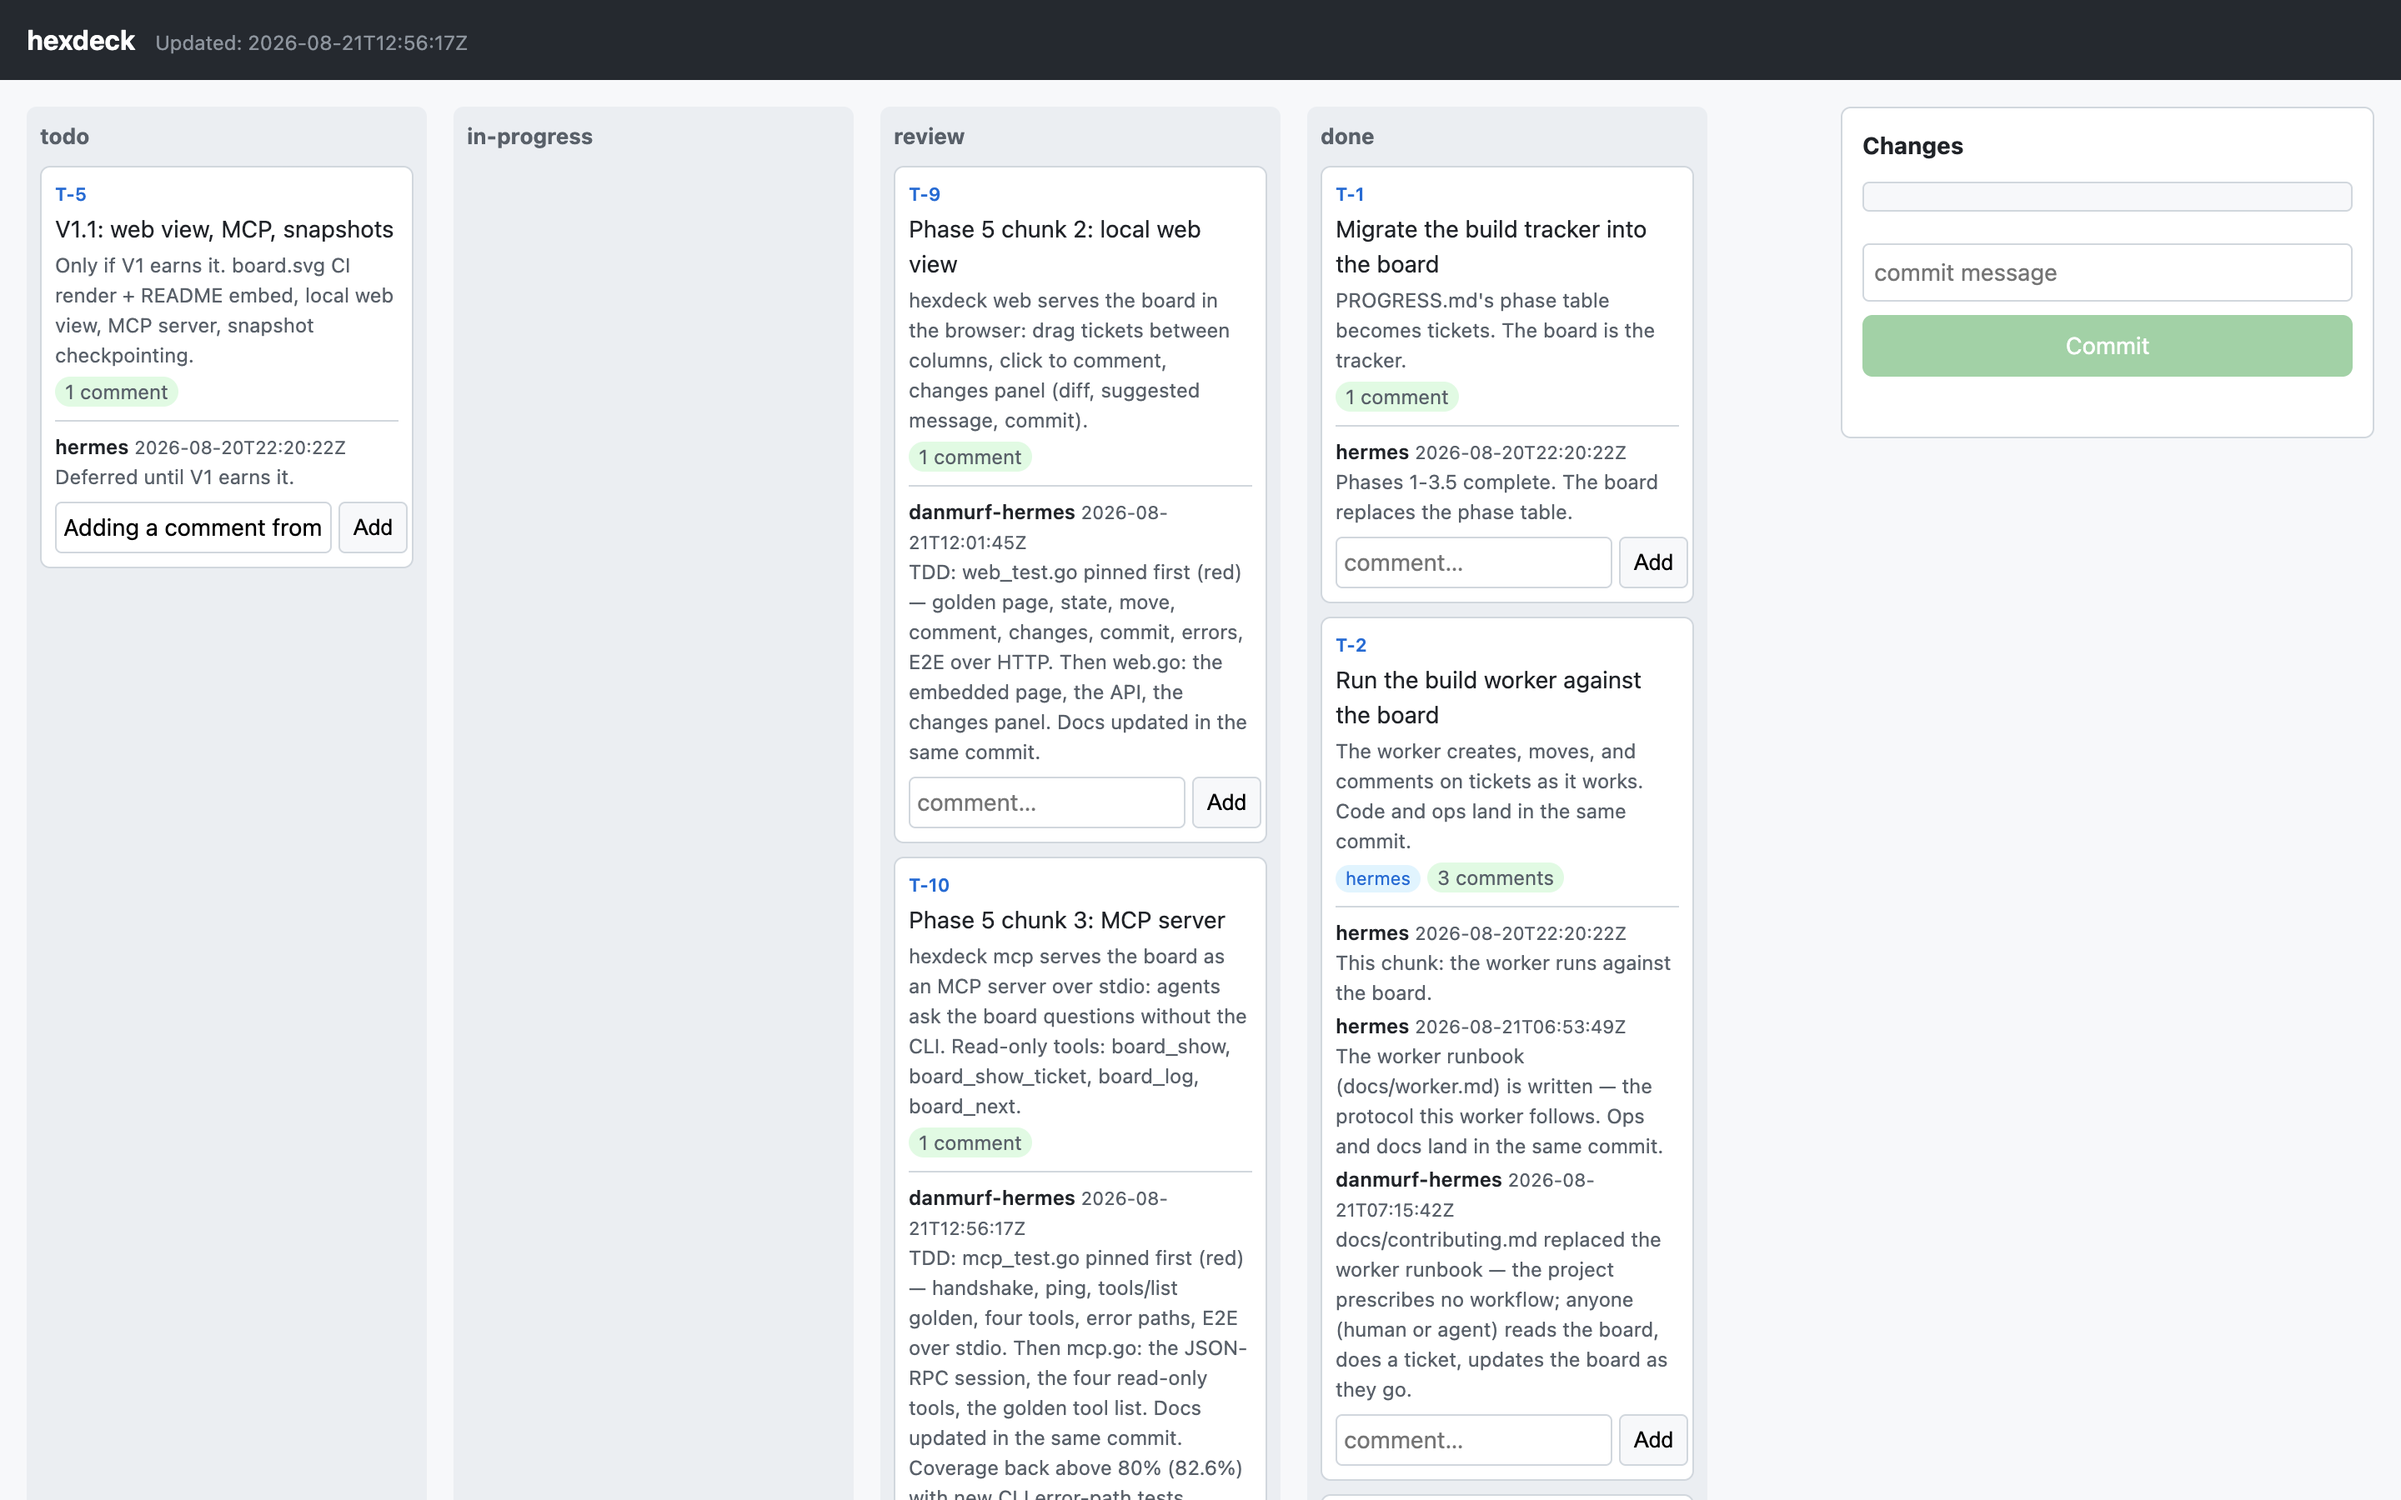
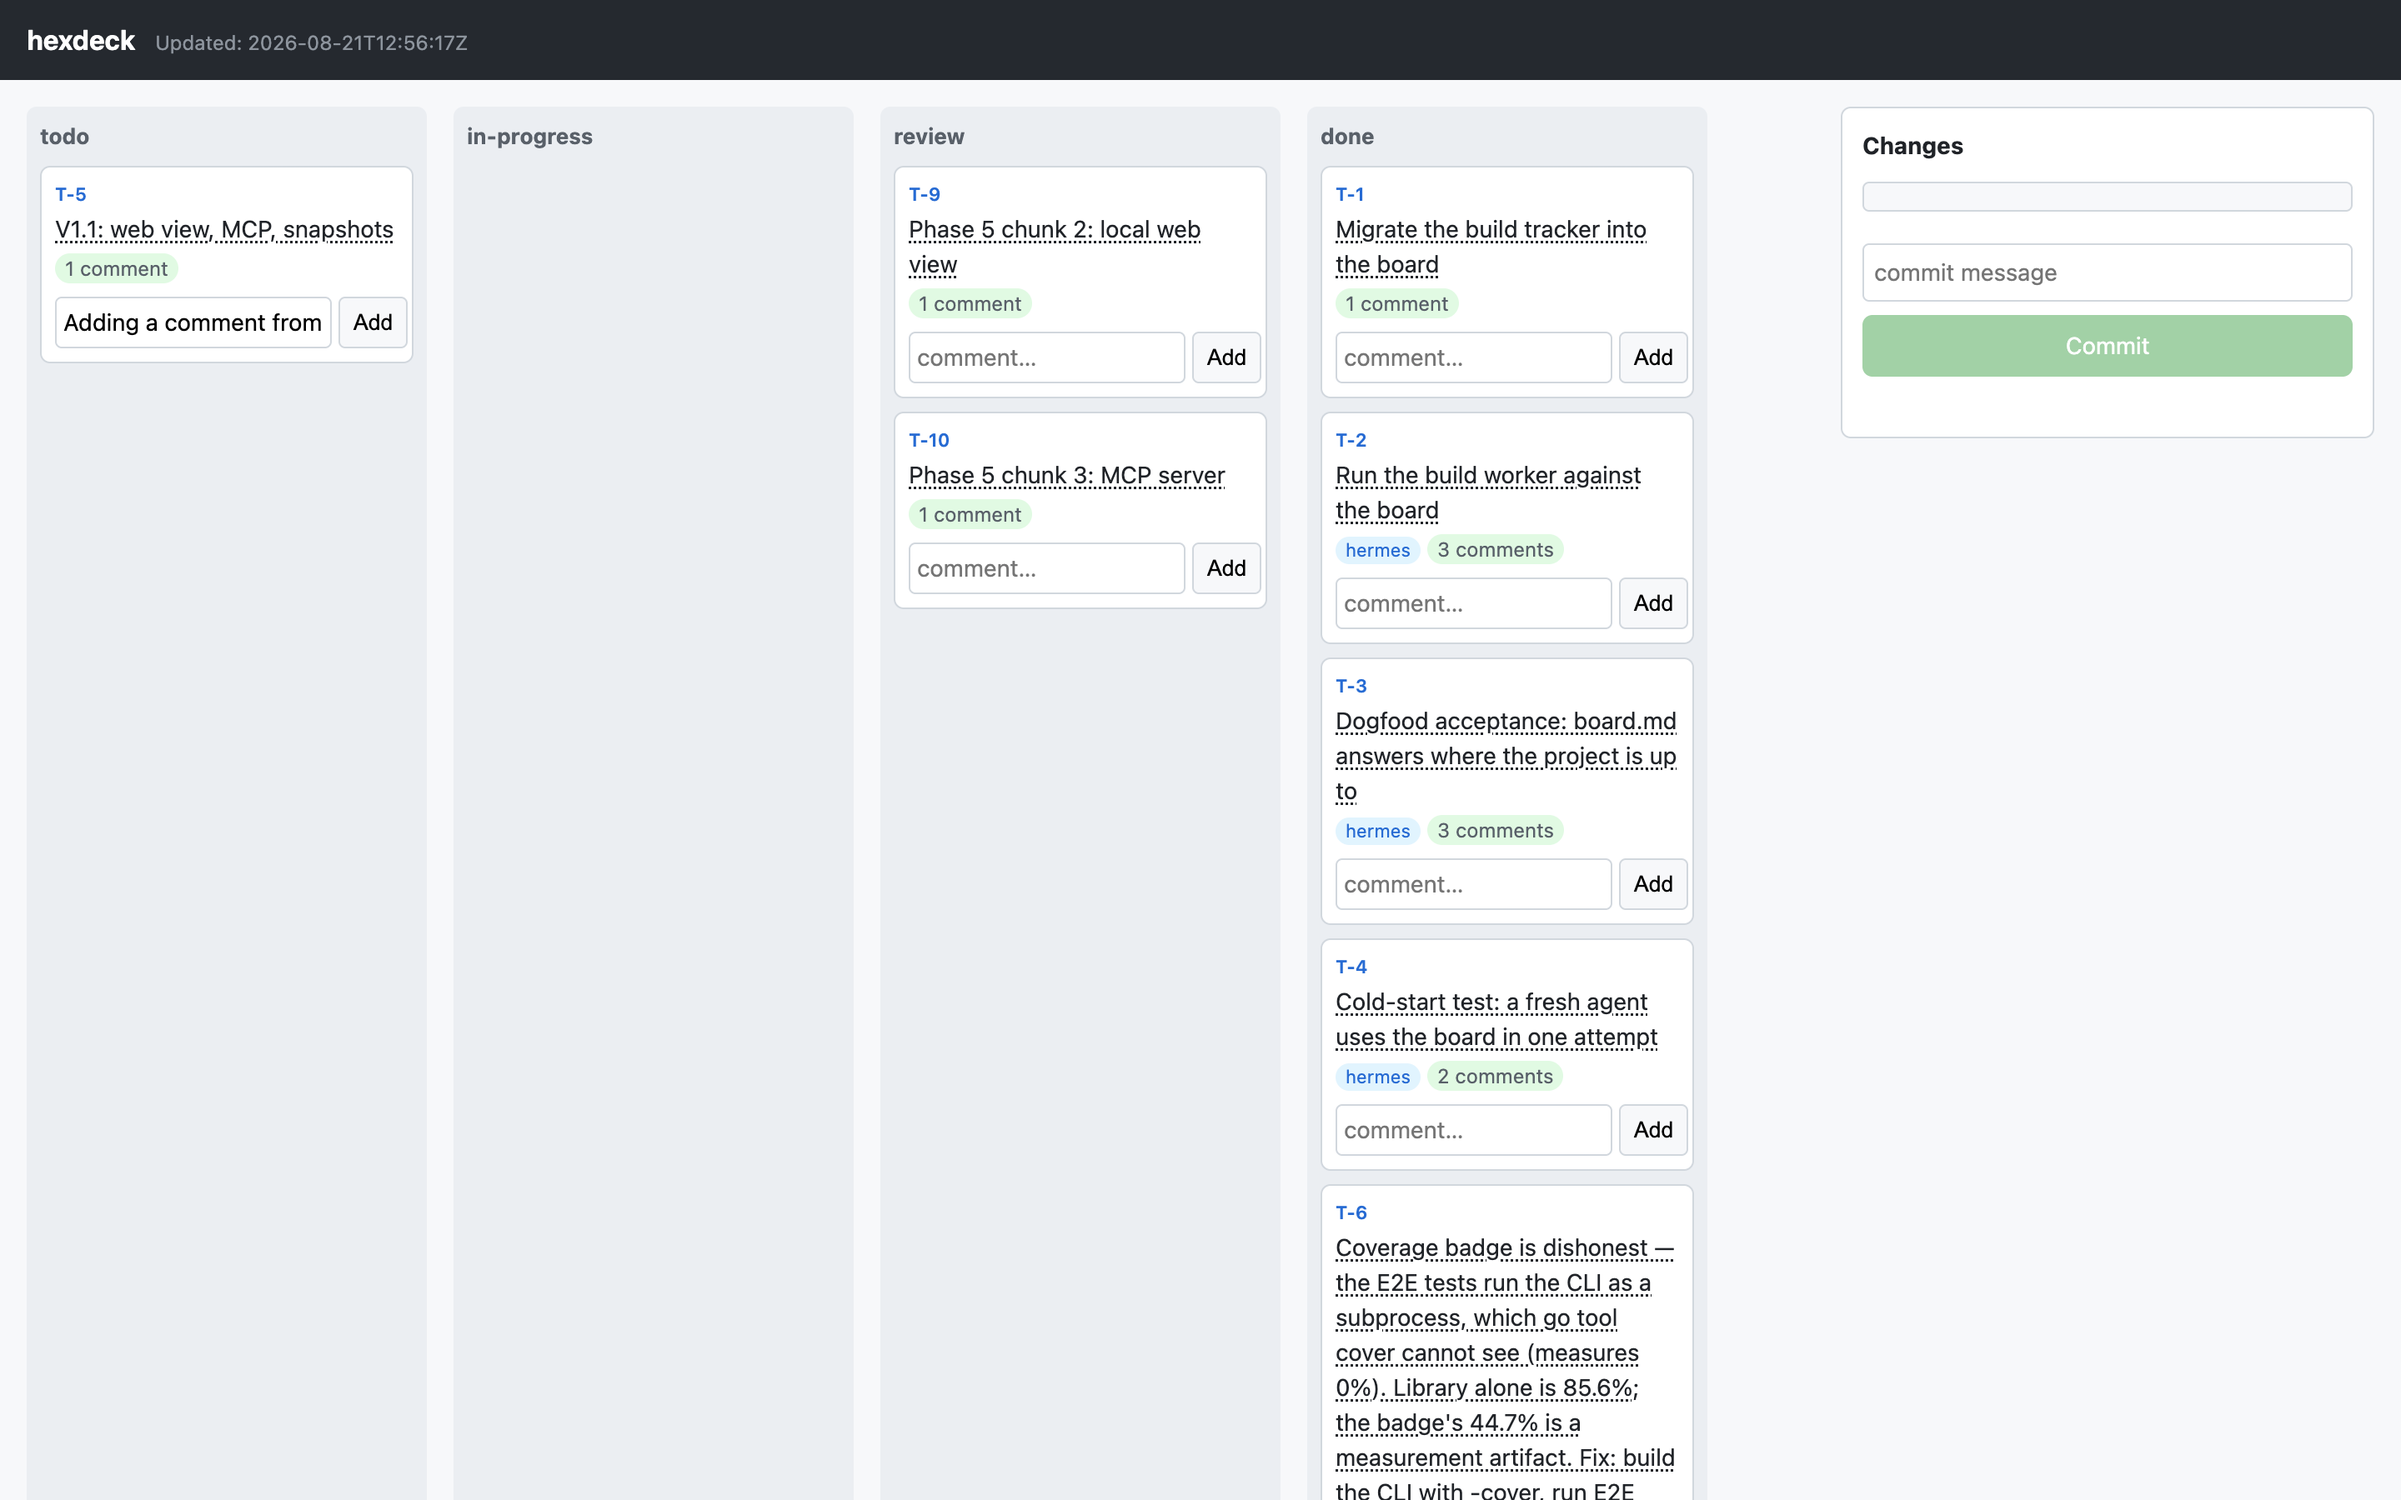
feat: compact web cards — description and comments expand on click
Cards show id, title and badges. Clicking the title expands the
description and comments. README screenshots updated, including the
expanded-card view.

diff --git a/cmd/hexdeck/testdata/golden/web.html b/cmd/hexdeck/testdata/golden/web.html
@@ -19,7 +19,7 @@ main { display:flex; gap:16px; padding:16px; align-items:flex-start; }
 .card { background:var(--card); border:1px solid var(--border); border-radius:6px; padding:8px; margin-bottom:8px; cursor:grab; }
 .card.dragging { opacity:.5; }
 .card .id { font-size:11px; color:var(--accent); font-weight:600; }
-.card .title { margin:2px 0; }
+.card .title { margin:2px 0; cursor:pointer; text-decoration:underline dotted; text-underline-offset:2px; }
 .card .desc { color:var(--meta); font-size:12px; margin:2px 0; }
 .card .meta { font-size:11px; color:var(--meta); }
 .card .badge { display:inline-block; border-radius:10px; padding:0 6px; margin-right:4px; font-size:11px; }
@@ -79,13 +79,21 @@ function cardHTML(t) {
   return '<div class="card" draggable="true" data-id="' + esc(t.id) + '">' +
     '<div class="id">' + esc(t.id) + '</div>' +
     '<div class="title">' + esc(t.title) + '</div>' +
-    (t.description ? '<div class="desc">' + esc(t.description) + '</div>' : "") +
     (badges.length ? '<div class="meta">' + badges.join("") + '</div>' : "") +
-    (comments ? '<div class="comments">' + comments + '</div>' : "") +
+    (t.description || comments ? '<div class="details" hidden>' +
+      (t.description ? '<div class="desc">' + esc(t.description) + '</div>' : "") +
+      (comments ? '<div class="comments">' + comments + '</div>' : "") +
+      '</div>' : "") +
     '<form class="comment-form" data-id="' + esc(t.id) + '">' +
     '<input placeholder="comment…"><button>Add</button></form>' +
     '</div>';
 }
+document.addEventListener("click", e => {
+  const title = e.target.closest(".card .title");
+  if (!title) return;
+  const details = title.parentElement.querySelector(".details");
+  if (details) details.hidden = !details.hidden;
+});
 function render() {
   const b = state.board;
   if (!b) return;

diff --git a/cmd/hexdeck/web.go b/cmd/hexdeck/web.go
@@ -39,7 +39,7 @@ main { display:flex; gap:16px; padding:16px; align-items:flex-start; }
 .card { background:var(--card); border:1px solid var(--border); border-radius:6px; padding:8px; margin-bottom:8px; cursor:grab; }
 .card.dragging { opacity:.5; }
 .card .id { font-size:11px; color:var(--accent); font-weight:600; }
-.card .title { margin:2px 0; }
+.card .title { margin:2px 0; cursor:pointer; text-decoration:underline dotted; text-underline-offset:2px; }
 .card .desc { color:var(--meta); font-size:12px; margin:2px 0; }
 .card .meta { font-size:11px; color:var(--meta); }
 .card .badge { display:inline-block; border-radius:10px; padding:0 6px; margin-right:4px; font-size:11px; }
@@ -99,13 +99,21 @@ function cardHTML(t) {
   return '<div class="card" draggable="true" data-id="' + esc(t.id) + '">' +
     '<div class="id">' + esc(t.id) + '</div>' +
     '<div class="title">' + esc(t.title) + '</div>' +
-    (t.description ? '<div class="desc">' + esc(t.description) + '</div>' : "") +
     (badges.length ? '<div class="meta">' + badges.join("") + '</div>' : "") +
-    (comments ? '<div class="comments">' + comments + '</div>' : "") +
+    (t.description || comments ? '<div class="details" hidden>' +
+      (t.description ? '<div class="desc">' + esc(t.description) + '</div>' : "") +
+      (comments ? '<div class="comments">' + comments + '</div>' : "") +
+      '</div>' : "") +
     '<form class="comment-form" data-id="' + esc(t.id) + '">' +
     '<input placeholder="comment…"><button>Add</button></form>' +
     '</div>';
 }
+document.addEventListener("click", e => {
+  const title = e.target.closest(".card .title");
+  if (!title) return;
+  const details = title.parentElement.querySelector(".details");
+  if (details) details.hidden = !details.hidden;
+});
 function render() {
   const b = state.board;
   if (!b) return;

diff --git a/docs/architecture.md b/docs/architecture.md
@@ -340,8 +340,9 @@ and holds the suggested commit message — edit it and press Commit.
 
 The page is a render, like `board.md` and `board.svg`: it is embedded
 in the binary as one deterministic HTML file, pinned by a golden test
-(`TestWebPageGolden`). The page never touches the board files itself —
-it talks to the API endpoints the server exposes:
+(`TestWebPageGolden`). Cards show id, title and badges; a click on the
+title expands the description and comments. The page never touches the
+board files itself — it talks to the API endpoints the server exposes:
 
 - `GET /api/state` — the projection.
 - `POST /api/move` — move a ticket. Body: `{"ticket": "T-1", "to":

diff --git a/README.md b/README.md
@@ -70,6 +70,11 @@ as the CLI.
 
 ![The board in the browser](docs/web-board.png)
 
+Cards show the id, title and badges. Click a title to expand the
+description and comments:
+
+![Expanded card](docs/web-card-expanded.png)
+
 Type a comment on a ticket to add it to the board:
 
 ![Adding a comment](docs/web-comment-typed.png)
